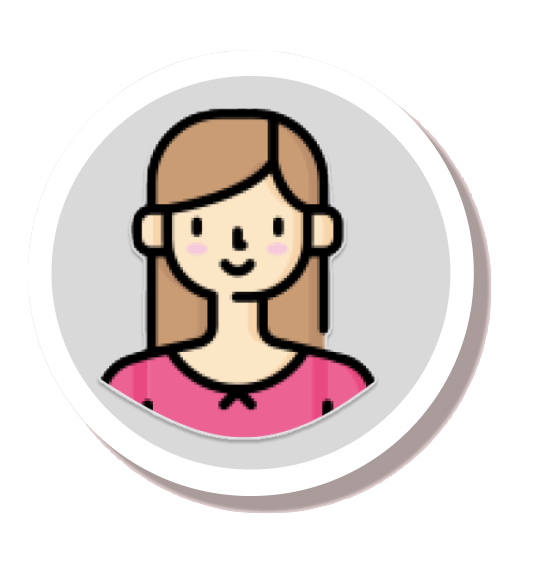
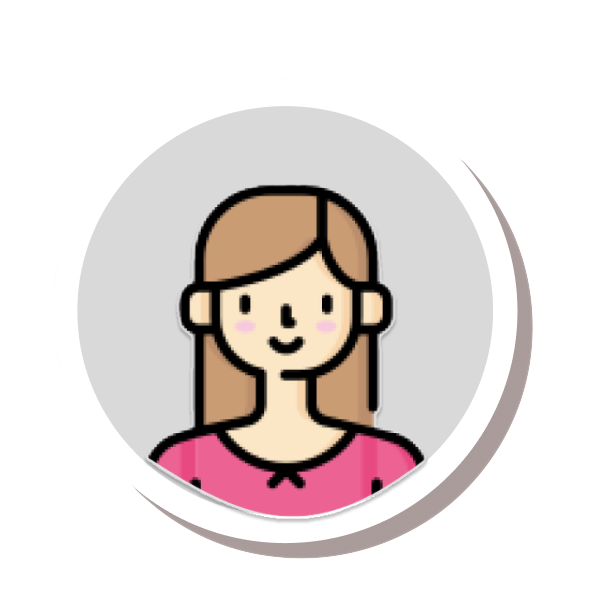
마이페이지 사진 변경

diff --git a/src/components/myPage/Profile.tsx b/src/components/myPage/Profile.tsx
@@ -1,6 +1,7 @@
 import React, { useEffect, useState } from 'react';
 
 import dad from '../../assets/dad.png';
+import mom from '../../assets/mom.png';
 import { memberInfo } from '../../service/member';
 import { getJSESSIONCookie } from '../../utils/cookie';
 
@@ -22,7 +23,7 @@ const Profile: React.FC = () => {
 
   return (
     <div className="flex justify-center items-center mt-[5vh] m-auto w-[95%] h-[25vh] border border-sky-500 rounded-[15px]">
-      <img src={dad} className="w-[50%] h-[70%]" alt="" />
+      <img src={mom} className="w-[50%] h-[90%]" alt="" />
       <div className="flex flex-col  w-[50%] h-[60%]">
         <p className="text-[25px] mt-[4vh] font-bold">{name}님</p>
         <p className="text-[16px] text-gray-400 mt-[2vh]">{birth}</p>
